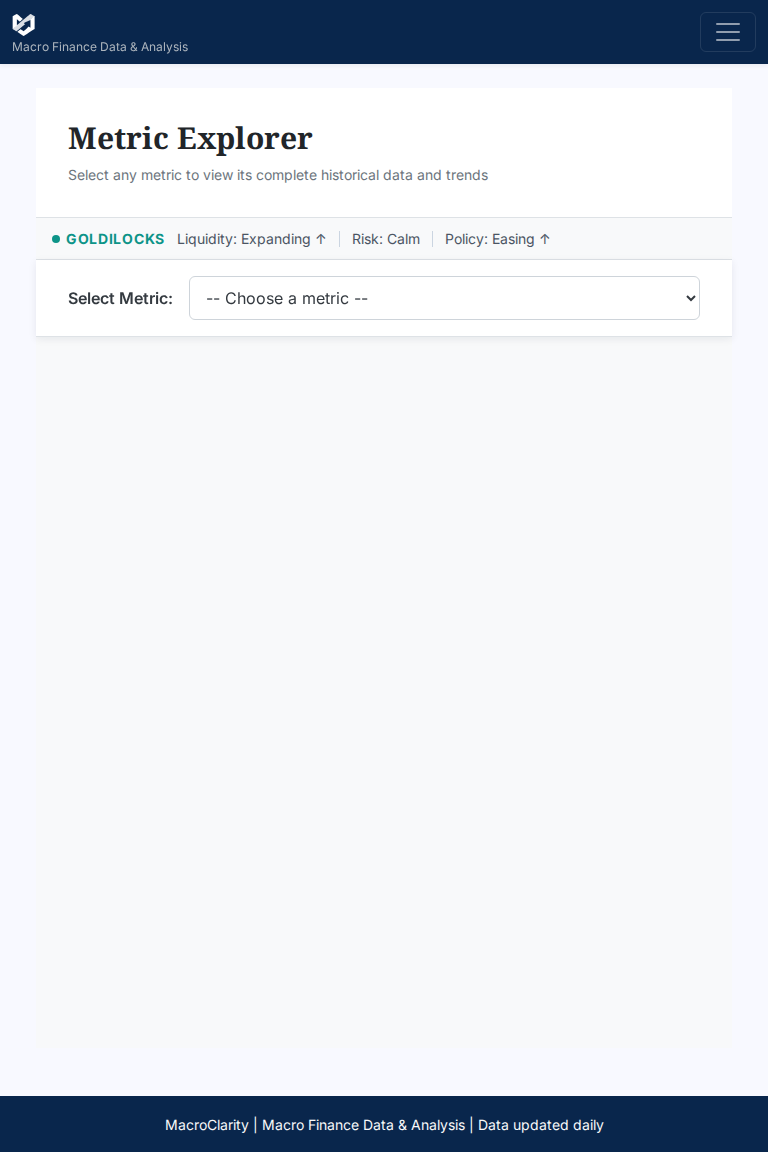
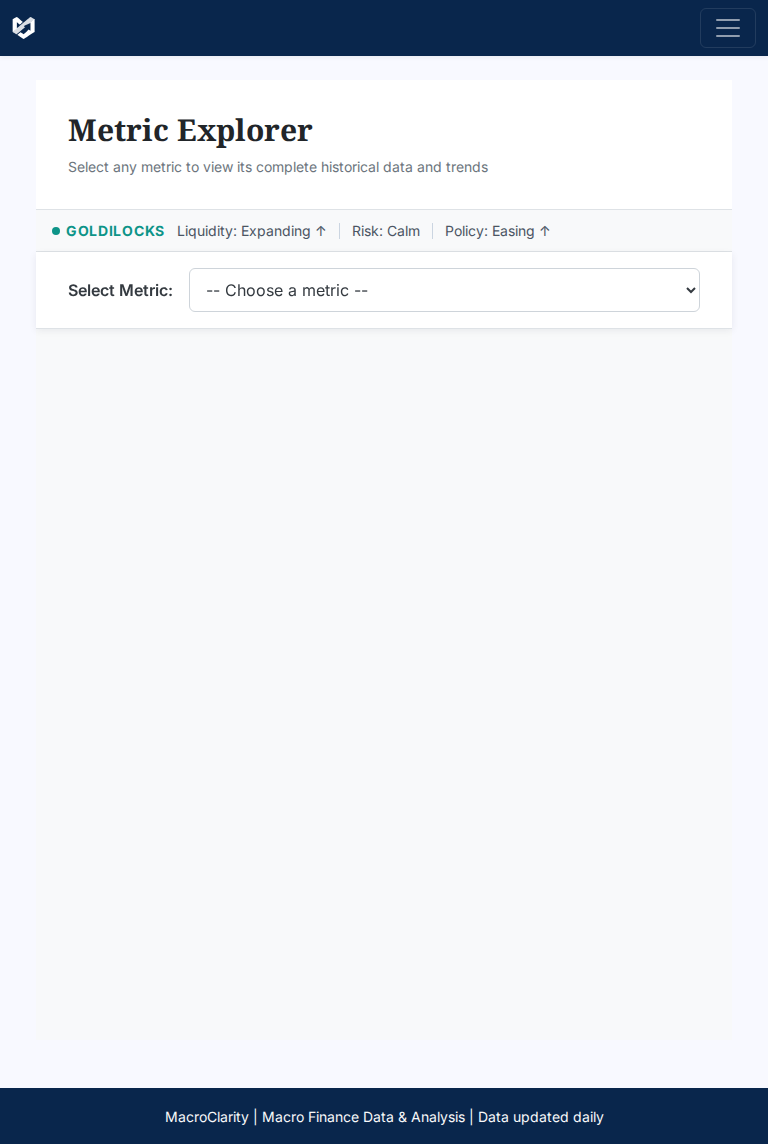
Remove navbar tagline, Dashboard link, and Last Updated timestamp
- Remove "Macro Finance Data & Analysis" tagline and its CSS
- Remove "Dashboard" nav link (logo already navigates home)
- Remove clock icon and "Last Updated" timestamp from navbar
- Remove updateLastUpdatedTime() JS function (dead code)
- Update screenshots to reflect cleaner navbar

Implements #457 per design spec.

Changed region(s): [[0.0625, 0.0918, 0.9062, 0.2753], [0.0, 0.0, 1.0, 0.0612], [0.0938, 0.2448, 0.2188, 0.2753]]

diff --git a/signaltrackers/templates/base.html b/signaltrackers/templates/base.html
@@ -45,18 +45,9 @@
                     <img src="{{ url_for('static', filename='img/macroclarity-logo-white.svg') }}" alt="MacroClarity" class="navbar-logo d-inline-block d-lg-none" width="24" height="24">
                     <span class="navbar-brand-text d-none d-lg-inline"><span class="navbar-brand-bold">MACRO</span><span class="navbar-brand-light">CLARITY</span></span>
                 </a>
-                <span class="navbar-tagline d-none d-md-inline">
-                    Macro Finance Data &amp; Analysis
-                </span>
             </div>
             <div class="collapse navbar-collapse" id="navbarNav">
                 <ul class="navbar-nav me-auto">
-                    <li class="nav-item">
-                        <a class="nav-link {% if request.endpoint == 'index' %}active{% endif %}" href="/">
-                            <i class="bi bi-speedometer2"></i> Dashboard
-                        </a>
-                    </li>
-
                     <li class="nav-item">
                         <a class="nav-link {% if request.endpoint == 'news' %}active{% endif %}" href="/news">
                             <i class="bi bi-newspaper"></i> News
@@ -108,17 +99,6 @@
                     {% endif %}
                 </ul>
                 <ul class="navbar-nav ms-auto">
-                    <li class="nav-item me-3">
-                        <span class="navbar-text" id="last-updated">
-                            <i class="bi bi-clock"></i> <span id="update-time">Loading...</span>
-                        </span>
-                    </li>
-                    <li class="nav-item me-3">
-                        <!-- <button class="btn btn-outline-light btn-sm" id="refresh-data-btn" title="Refresh market data and AI briefings">
-                            <i class="bi bi-arrow-repeat" id="refresh-icon"></i>
-                            <span class="d-none d-lg-inline" id="refresh-text">Refresh Data</span>
-                        </button> -->
-                    </li>
                     {% if current_user.is_authenticated %}
                     <li class="nav-item dropdown">
                         <a class="nav-link dropdown-toggle" href="#" id="userDropdown" role="button"

diff --git a/signaltrackers/static/js/dashboard.js b/signaltrackers/static/js/dashboard.js
@@ -87,26 +87,8 @@ function setupAutoRefresh(refreshInterval = 60000) {
 document.addEventListener('DOMContentLoaded', function() {
     initializeBootstrap();
     setupAutoRefresh();
-    updateLastUpdatedTime();
     initConditionsAnnotations();
 });
-
-// Update last updated time
-async function updateLastUpdatedTime() {
-    try {
-        const response = await fetch('/api/reload-status');
-        const status = await response.json();
-
-        const updateTimeElement = document.getElementById('update-time');
-        if (updateTimeElement && status.last_reload) {
-            updateTimeElement.textContent = status.last_reload;
-        } else if (updateTimeElement) {
-            updateTimeElement.textContent = 'Never';
-        }
-    } catch (error) {
-        console.error('Error fetching last updated time:', error);
-    }
-}
 
 // Initialize conditions annotation toggles (US-4.1.3)
 // Mobile: toggle expand/collapse. Tablet+: CSS keeps text always visible.

diff --git a/signaltrackers/static/css/dashboard.css b/signaltrackers/static/css/dashboard.css
@@ -188,21 +188,11 @@ canvas {
     font-weight: 400;
 }
 
-.navbar-tagline {
-    font-size: 0.75rem;
-    color: #adb5bd;
-    margin-top: -4px;
-}
-
 @media (min-width: 992px) {
     .navbar-brand-container {
         flex-direction: row;
         align-items: baseline;
         gap: 1rem;
-    }
-
-    .navbar-tagline {
-        margin-top: 0;
     }
 }
 
